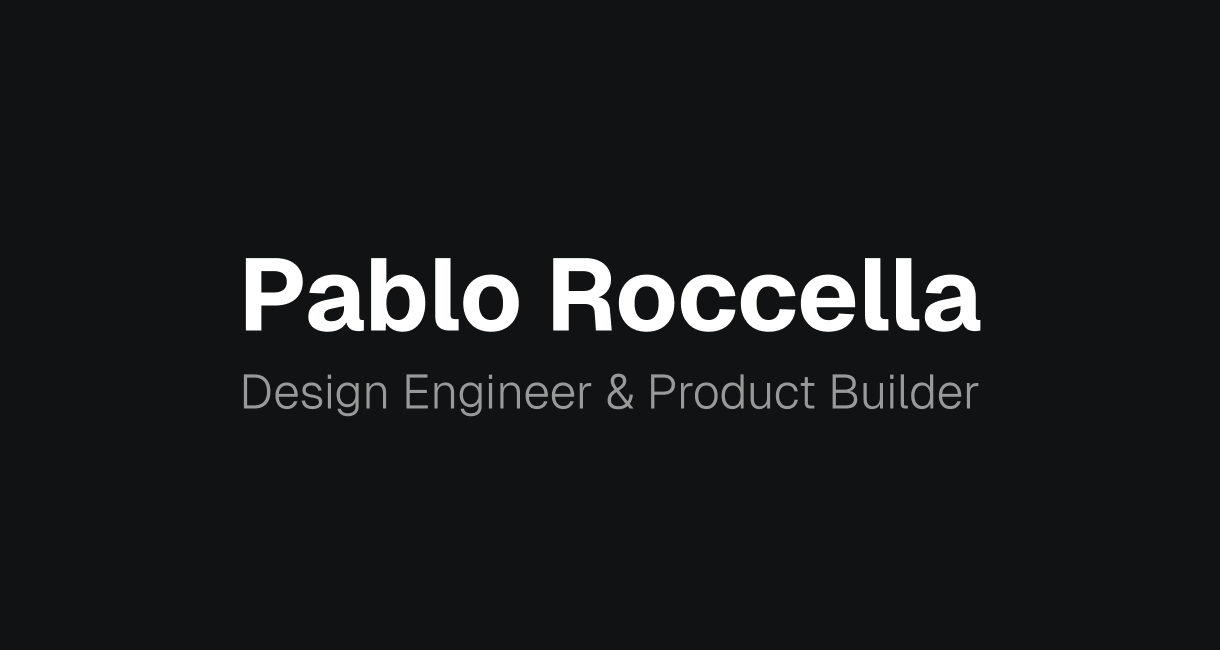
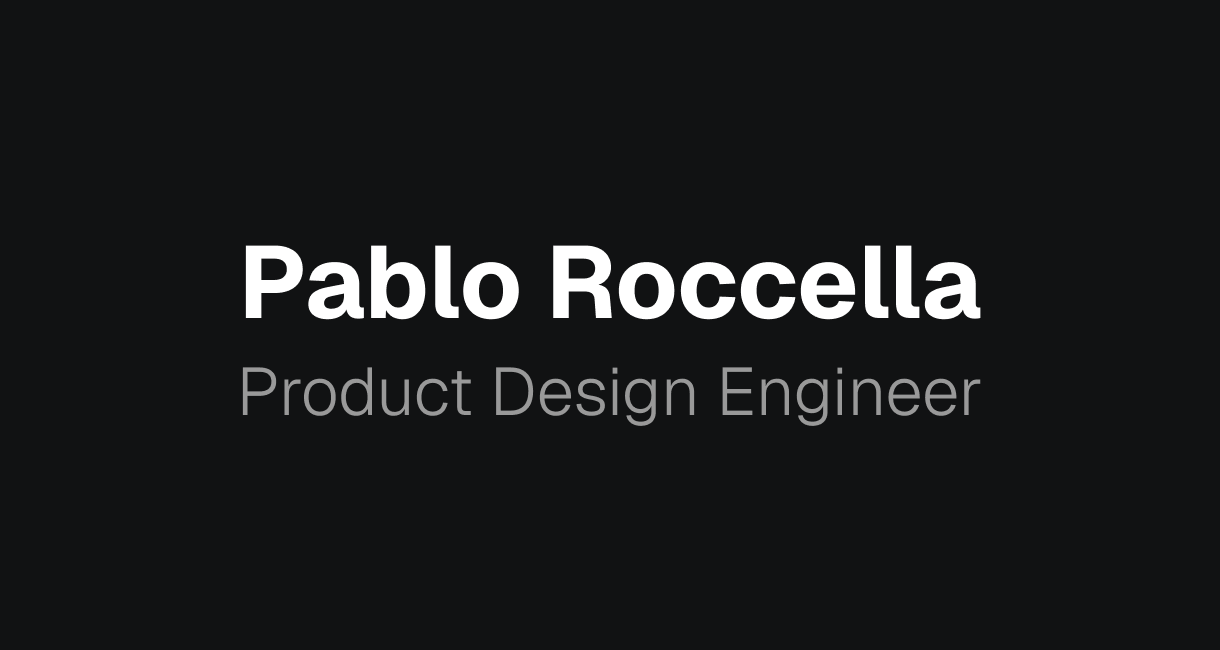
feat: Product Design Engineer across the portfolio
The headline changed on 2026-09-01 from "Design Engineer & Product
Builder". `Product Builder` appears in zero of the 125 postings
`../job-hunt` read; `Product Design Engineer` is the exact title of
the two best-fit ones. `../hub-career/profile.md` § Headline holds
the count and the reasoning.

The full string is the LinkedIn headline. Surfaces with room for a
role and not for a sentence carry `Product Design Engineer` alone,
which is every one of these: the sidebar, the mobile header, the
`<title>`, and the og and twitter titles.

`index.html` also takes the five new About paragraphs.

`media/social-thumb.png`: Pablo's new export. `AGENTS.md` gets the
section saying he makes it and no agent generates it, and
`scripts/gen-social-thumb.py` is deleted, since it was the only
mechanism by which an agent could overwrite his file.

Claude-Session: https://claude.ai/code/session_01SU4rakw1JVpS5gH3yxSFpF

Changed region(s): [[0.1869, 0.3692, 0.8098, 0.5231], [0.1869, 0.5538, 0.8098, 0.6769], [0.1869, 0.4923, 0.218, 0.5231]]

diff --git a/index.html b/index.html
@@ -3,9 +3,9 @@
 <head>
 	<meta charset="UTF-8">
 	<meta name="viewport" content="width=device-width, initial-scale=1.0">
-	<title>Pablo Roccella - Design Engineer & Product Builder</title>
-	<meta name="description" content="Pablo Roccella - Design Engineer & Product Builder. I design, build and run end-to-end products with AI, from business strategy to a live SaaS.">
-	<meta name="keywords" content="Design Engineer, Product Builder, AI Product Development, Agentic Workflows, Product Strategy, UX Research, Service Design, Design Systems">
+	<title>Pablo Roccella - Product Design Engineer</title>
+	<meta name="description" content="Pablo Roccella - Product Design Engineer. Research, design and development with AI agents: I take products end to end, from the business model to a live SaaS.">
+	<meta name="keywords" content="Product Design Engineer, Design Engineer, Product Design, AI Agents, Agentic AI, Product Strategy, UX Research, Design Systems, Front-End Development">
 	<meta name="author" content="Pablo Roccella">
 	<link rel="preload" href="fonts/geist-latin-var.woff2" as="font" type="font/woff2" crossorigin>
 	<link rel="stylesheet" href="styles.css">
@@ -15,15 +15,15 @@
 	<link rel="icon" type="image/png" sizes="16x16" href="media/favicon/favicon-16x16.png">
 	<meta property="og:type" content="website">
 	<meta property="og:url" content="https://roccella.github.io/portfolio/">
-	<meta property="og:title" content="Pablo Roccella - Design Engineer & Product Builder">
-	<meta property="og:description" content="I design, build and run end-to-end products with AI, from business strategy to a live SaaS.">
+	<meta property="og:title" content="Pablo Roccella - Product Design Engineer">
+	<meta property="og:description" content="Research, design and development with AI agents: I take products end to end, from the business model to a live SaaS.">
 	<meta property="og:image" content="https://roccella.github.io/portfolio/media/social-thumb.png">
 	<meta property="og:image:type" content="image/png">
 	<meta property="og:image:width" content="1200">
 	<meta property="og:image:height" content="630">
 	<meta name="twitter:card" content="summary_large_image">
-	<meta name="twitter:title" content="Pablo Roccella - Design Engineer & Product Builder">
-	<meta name="twitter:description" content="I design, build and run end-to-end products with AI, from business strategy to a live SaaS.">
+	<meta name="twitter:title" content="Pablo Roccella - Product Design Engineer">
+	<meta name="twitter:description" content="Research, design and development with AI agents: I take products end to end, from the business model to a live SaaS.">
 	<meta name="twitter:image" content="https://roccella.github.io/portfolio/media/social-thumb.png">
 	<!-- Google tag (gtag.js) -->
 	<script async src="https://www.googletagmanager.com/gtag/js?id=G-XRE9M0S64T"></script>
@@ -41,7 +41,7 @@
 			<a href="#" class="sidebar-identity">
 				<img class="sidebar-avatar" src="media/2026-avatar.webp" width="256" height="256" alt="Pablo Roccella" decoding="async">
 				<h1 class="sidebar-name">Pablo Roccella</h1>
-				<p class="sidebar-headline">Design Engineer &<br>Product Builder</p>
+				<p class="sidebar-headline">Product Design<br>Engineer</p>
 			</a>
 			<a class="sidebar-link" href="https://www.linkedin.com/in/roccella/" target="_blank" rel="noopener noreferrer">LinkedIn</a>
 			<nav class="sidebar-nav" aria-label="Articles">
@@ -64,15 +64,17 @@
 					<a href="#" class="mobile-identity">
 						<img class="avatar" src="media/2026-avatar.webp" width="256" height="256" alt="Pablo Roccella" decoding="async">
 						<h1>Pablo Roccella</h1>
-						<p class="headline">Design Engineer &<br>Product Builder</p>
+						<p class="headline">Product Design<br>Engineer</p>
 					</a>
 					<a class="cta" href="https://www.linkedin.com/in/roccella/" target="_blank" rel="noopener noreferrer">LinkedIn</a>
 					<hr>
 				</div>
 				<h2>About me</h2>
-				<p class="bio">I use AI agents to take products end to end: I own the business and architecture decisions, then design, build, ship, and maintain them.</p>
-				<p class="bio">I work with a custom workflow for coding agents like Claude Code and Codex: a set of rules and a harness I audit regularly. Knowing how these agents work under the hood is what keeps the results solid.</p>
-				<p class="bio">Before this, 20 years across government, finance, health, and tech: leading Argentina's national digital services end-to-end, designing the banking experience for senior citizens at Banco Macro, building design systems at scale, and creating one of the first health-focused conversational experiences for the Argentine Ministry of Health.</p>
+				<p class="bio">I design products and I build them with AI agents. On my own SaaS that means the business model and the pricing, the UX and the design system, and the front end, the infrastructure, the billing and the security underneath.</p>
+				<p class="bio">I work with coding agents through a custom harness any of them can load, Claude Code and Codex among them. It carries shared rules and skills, automated checks, and scheduled runs that do the repetitive work unattended.</p>
+				<p class="bio">I build the design review tools into the product itself. My SaaS has a section in its admin that shows the real components, every page with its content, and the flows as diagrams. I look at what ships and ask the agent for changes. I use Figma when the work calls for it.</p>
+				<p class="bio">The SaaS is live in invite-only beta. It runs on Next.js and TypeScript on Cloudflare. I write the use cases and I test them, and the funnels from first visit to goal are instrumented in GA4 and Microsoft Clarity. Other projects run on the same setup.</p>
+				<p class="bio">Before this, 20 years across government, finance, health, and tech. I led Argentina's national digital services, designed the banking experience for senior citizens at Banco Macro, and built design systems at scale.</p>
 				<ul class="article-list">
 					<li>
 						<a class="article-card" href="#dadatien">

diff --git a/AGENTS.md b/AGENTS.md
@@ -42,6 +42,12 @@ Articles come from `../hub-career/articles/` drafts. The repo was `blog-articles
 
 When adding or updating an article in the portfolio, follow the two sources above.
 
+## `media/social-thumb.png` lo genera Pablo
+
+`media/social-thumb.png` is the Open Graph and Twitter card image for `index.html` (`index.html:20` and `index.html:27`), 1200x630. Pablo builds it by hand in Figma and exports it. It is the one asset in this repo an agent does not produce.
+
+If it has to change, because the role name in it changed or for any other reason, say so and ask him for a new export. Do not generate, redraw, resize or regenerate it, and do not substitute a rendered HTML page for it.
+
 ## Design System
 
 All values are defined as CSS variables in `:root` at the top of `styles.css`. Never hardcode colors - always use the tokens.
